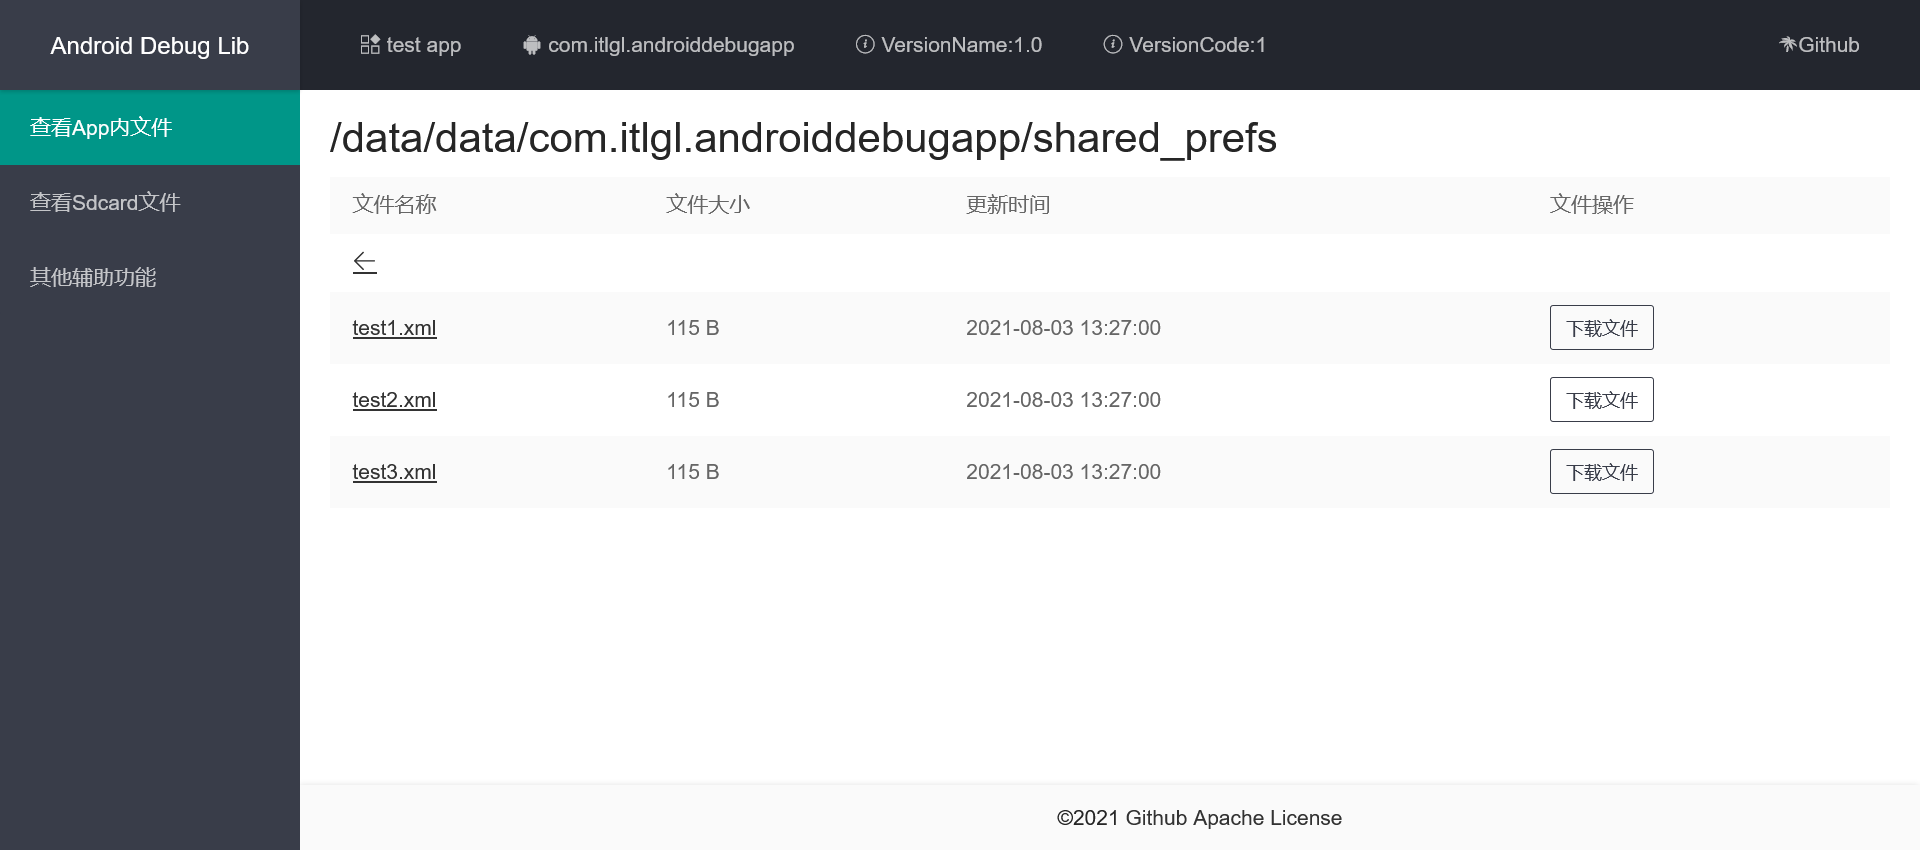
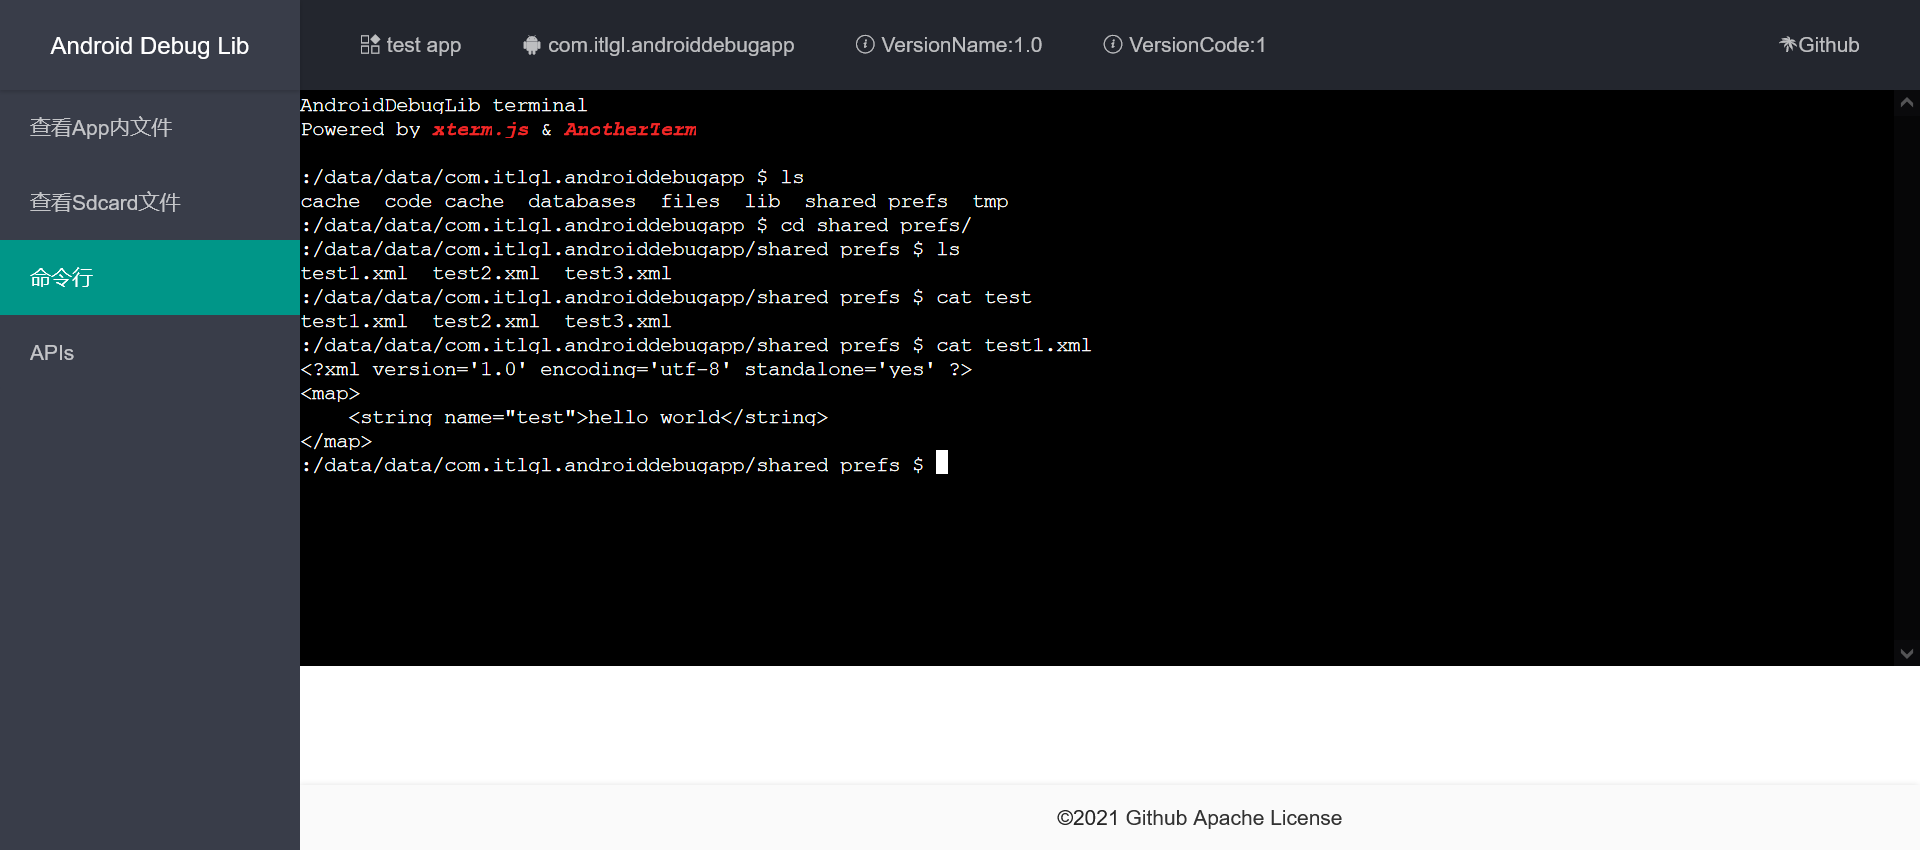
xterm.js窗口自适应，readme修改

diff --git a/android_debug_lib/src/main/assets/android_debug_lib/console.html b/android_debug_lib/src/main/assets/android_debug_lib/console.html
@@ -36,6 +36,9 @@
         term.writeln('AndroidDebugLib terminal');
         term.writeln('Powered by \x1B[1;3;31mxterm.js\x1B[0m & \x1B[1;3;31mAnotherTerm\x1B[0m');
         term.writeln('');
+
+        console.log("term---" + term.cols + "," + term.rows);
+        socket.send(JSON.stringify({ "op": "resize", "cols": term.cols, "rows": term.rows }));
     }
 
     window.onbeforeunload=function(event){

diff --git a/android_debug_lib/src/main/java/com/itlgl/android/debuglib/server/PtyWebSocket.java b/android_debug_lib/src/main/java/com/itlgl/android/debuglib/server/PtyWebSocket.java
@@ -6,6 +6,8 @@ import android.os.Environment;
 import android.os.ParcelFileDescriptor;
 import android.text.TextUtils;
 
+import com.google.gson.Gson;
+import com.itlgl.android.debuglib.server.model.PtyRequest;
 import com.itlgl.android.debuglib.utils.AppUtils;
 import com.itlgl.android.debuglib.utils.LogUtils;
 import com.itlgl.java.util.ByteUtils;
@@ -31,6 +33,7 @@ public class PtyWebSocket extends NanoWSD.WebSocket {
     private Thread mWatcherThread;
     private Thread mReaderThread;
     private Context mContext;
+    private final Gson mGson = new Gson();
 
     public PtyWebSocket(Context context, NanoHTTPD.IHTTPSession handshakeRequest) {
         super(handshakeRequest);
@@ -52,6 +55,7 @@ public class PtyWebSocket extends NanoWSD.WebSocket {
         env.put("SHELL_SESSION_TOKEN", Long.toHexString(System.currentTimeMillis()).toUpperCase());
         env.put("TERM", "xterm");
         env.put("DATA_DIR", mContext.getApplicationInfo().dataDir);
+        env.put("APP_DIR", "/data/data/" + AppUtils.getPackageName(mContext));
         if (Build.VERSION.SDK_INT >= 24) {
             env.put("PROTECTED_DATA_DIR", mContext.getApplicationInfo().deviceProtectedDataDir);
         }
@@ -72,12 +76,13 @@ public class PtyWebSocket extends NanoWSD.WebSocket {
 //        for (final Map.Entry<String, String> ei : envInput.entrySet())
 //            env.put("INPUT_" + ei.getKey(), ei.getValue());
 
-//        String execute = "sh" +
-//                "export TMPDIR=\"$DATA_DIR/tmp\"" +
-//                "mkdir -p \"$TMPDIR\"" +
-//                "export TERMSH=\"$LIB_DIR/libtermsh.so\"" +
-//                "cd \"$DATA_DIR\"";
-        String execute = "sh";
+//        String execute = "export TMPDIR=\"$DATA_DIR/tmp\"\n" +
+//                "mkdir -p \"$TMPDIR\"\n" +
+//                "export TERMSH=\"$LIB_DIR/libtermsh.so\"\n" +
+//                "cd \"$DATA_DIR\"\n" +
+//                "sh";
+        String execute = "cd \"$APP_DIR\"\n" +
+                "sh";
         final PtyProcess p = PtyProcess.system(execute, env);
         mPtyProcess = p;
         mPtyOut = p.getOutputStream();
@@ -129,7 +134,6 @@ public class PtyWebSocket extends NanoWSD.WebSocket {
                         }
 
                         if(read > 0) {
-                            System.out.println("read==" + ByteUtils.toHex(mBuffer, 0, read));
                             send(Arrays.copyOfRange(mBuffer, 0, read));
                         }
                     }
@@ -159,7 +163,7 @@ public class PtyWebSocket extends NanoWSD.WebSocket {
 
     private void closeWebSocket() {
         try {
-            send("pty closed");
+            send("terminal exit");
         } catch (IOException e) {
             //e.printStackTrace();
         }
@@ -184,8 +188,23 @@ public class PtyWebSocket extends NanoWSD.WebSocket {
 
     @Override
     protected void onMessage(NanoWSD.WebSocketFrame message) {
+        // 解析窗口参数
+        String textPayload = message.getTextPayload();
+        if(textPayload != null && textPayload.startsWith("{") && textPayload.endsWith("}")) {
+            try {
+                PtyRequest ptyRequest = mGson.fromJson(textPayload, PtyRequest.class);
+                int w = ptyRequest.cols;
+                int h = ptyRequest.rows;
+                mPtyProcess.resize(w, h, w * 16, h * 16);
+                LogUtils.d("PtyWebSocket resize w=%s, h=%s", w, h);
+            } catch (Exception e) {
+                // ignore
+                LogUtils.d("PtyWebSocket parse term json error, %s", e);
+            }
+            return;
+        }
+
         byte[] binaryPayload = message.getBinaryPayload();
-        System.out.println("read from ws: " + message.getTextPayload());
         try {
             mPtyOut.write(binaryPayload);
         } catch (IOException e) {

diff --git a/android_debug_lib/src/main/java/com/itlgl/android/debuglib/server/AndroidDebugServer.java b/android_debug_lib/src/main/java/com/itlgl/android/debuglib/server/AndroidDebugServer.java
@@ -28,7 +28,7 @@ public class AndroidDebugServer extends NanoWSD {
     public Response serveHttp(IHTTPSession session) {
         Method method = session.getMethod();
         String strUri = session.getUri();
-        LogUtils.i("request serve uri = %s, method = %s", strUri, method);
+        LogUtils.d("request serve uri = %s, method = %s", strUri, method);
 
         Response response = null;
         try {

diff --git a/android_debug_lib/src/main/java/com/itlgl/android/debuglib/server/model/ApiResponse.java b/android_debug_lib/src/main/java/com/itlgl/android/debuglib/server/model/ApiResponse.java
@@ -1,8 +1,5 @@
 package com.itlgl.android.debuglib.server.model;
 
-/**
- * @author guanliang on 2021/8/3
- */
 public class ApiResponse {
     public static final int CODE_SUCCESS = 0;
     public static final int CODE_NOT_REGISTER_IMPL = 1;

diff --git a/android_debug_lib/src/main/java/com/itlgl/android/debuglib/utils/ConsoleHelper.java b/android_debug_lib/src/main/java/com/itlgl/android/debuglib/utils/ConsoleHelper.java
@@ -2,9 +2,6 @@ package com.itlgl.android.debuglib.utils;
 
 import java.io.IOException;
 
-/**
- * @author guanliang on 2021/8/6
- */
 public class ConsoleHelper {
     private static final ConsoleHelper INSTANCE = new ConsoleHelper();
 

diff --git a/android_debug_lib/src/main/java/com/itlgl/android/debuglib/server/model/ApiRequest.java b/android_debug_lib/src/main/java/com/itlgl/android/debuglib/server/model/ApiRequest.java
@@ -1,8 +1,5 @@
 package com.itlgl.android.debuglib.server.model;
 
-/**
- * @author guanliang on 2021/8/3
- */
 public class ApiRequest {
     public String message;
 }

diff --git a/android_debug_lib/src/main/java/com/itlgl/android/debuglib/server/model/PtyRequest.java b/android_debug_lib/src/main/java/com/itlgl/android/debuglib/server/model/PtyRequest.java
@@ -1,0 +1,7 @@
+package com.itlgl.android.debuglib.server.model;
+
+public class PtyRequest {
+    public String op;
+    public int cols;
+    public int rows;
+}

diff --git a/README-zh.md b/README-zh.md
@@ -90,7 +90,8 @@ curl 'http://localhost:8080/api/command' -H 'Content-Type: application/json;char
 
 ## 鸣谢
 
-[Android Debug Database](https://github.com/amitshekhariitbhu/Android-Debug-Database)
+ - [Android Debug Database](https://github.com/amitshekhariitbhu/Android-Debug-Database)
+ - [AnotherTerm](https://github.com/green-green-avk/AnotherTerm)
 
 ## License
 

diff --git a/README.md b/README.md
@@ -92,7 +92,8 @@ curl 'http://localhost:8080/api/command' -H 'Content-Type: application/json;char
 
 ## Thanks
 
-[Android Debug Database](https://github.com/amitshekhariitbhu/Android-Debug-Database)
+ - [Android Debug Database](https://github.com/amitshekhariitbhu/Android-Debug-Database)
+ - [AnotherTerm](https://github.com/green-green-avk/AnotherTerm)
 
 ## License
 
